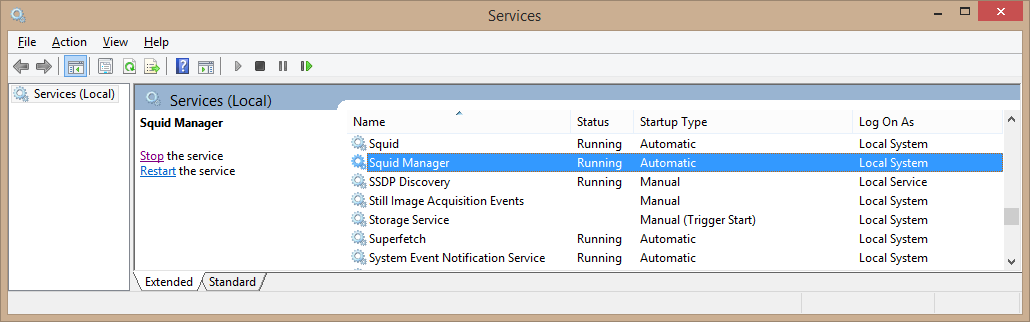
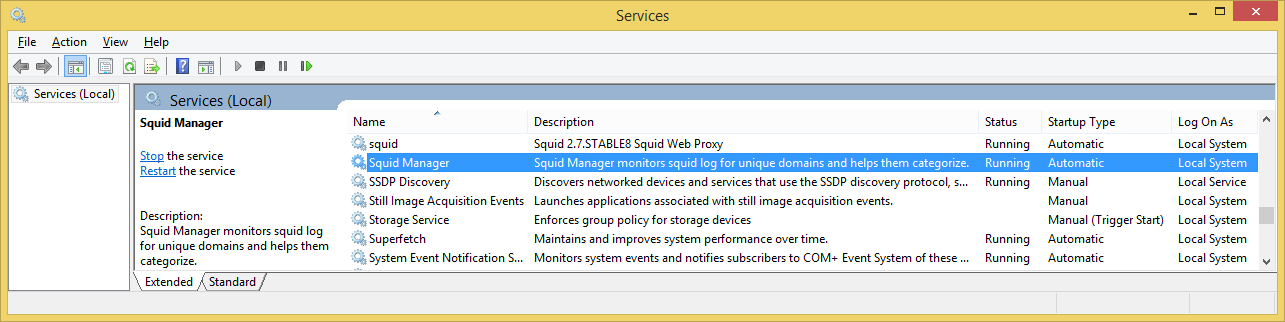
Update Screenshot and trivial refactors
Updated screenshot with trivial refactors

diff --git a/Squid Monitor/Squid Monitor/DomainListController.cs b/Squid Monitor/Squid Monitor/DomainListController.cs
@@ -46,7 +46,7 @@ namespace Squid_Monitor
         /// <param name="blockIgnore">Ignored domains List root node</param>
         /// <param name="newDomains">Newly detected List root node</param>
         /// <returns>Returns root node of created TreeNode list</returns>
-        public TreeNode LoadList(string listName, string listType, List<TreeNode> knownDomains, ref TreeNode blockTrust, ref TreeNode blockIgnore, ref TreeNode newDomains)
+        public TreeNode LoadList(string listName, string listType, List<TreeNode> knownDomains, List<TreeNode> knownNodes, ref TreeNode blockTrust, ref TreeNode blockIgnore, ref TreeNode newDomains)
         {
             SquidManager.DomainsList domainsList = null;
             switch (listType.ToLower())
@@ -62,7 +62,7 @@ namespace Squid_Monitor
                     break;
             }
 
-            TreeNode newRoot = this.ConstructTreeFromDlist(domainsList, knownDomains);
+            TreeNode newRoot = this.ConstructTreeFromDlist(domainsList, knownDomains, knownNodes);
             switch (listType.ToLower())
             {
                 case "trust":
@@ -73,7 +73,7 @@ namespace Squid_Monitor
                             n = newRoot.Nodes["Global"];
                         }
 
-                        n.Expand();
+                        n.Tag = true;
                         n = n.Nodes[0];
                         blockTrust = n;
                     }
@@ -84,7 +84,7 @@ namespace Squid_Monitor
                         TreeNode n = newRoot.Nodes["Global"];
                         if (n != null)
                         {
-                            n.Expand();
+                            n.Tag = true;
                             blockIgnore = n.Nodes[1];
                         }
                     }
@@ -93,8 +93,8 @@ namespace Squid_Monitor
                 case "new":
                     if (newRoot.Nodes.Count > 0)
                     {
-                        newRoot.Nodes[0].Expand();
-                        newRoot.Nodes[0].Nodes[1].Expand();
+                        newRoot.Nodes[0].Tag = true;
+                        newRoot.Nodes[0].Nodes[1].Tag = true;
                     }
 
                     newDomains = newRoot;
@@ -102,6 +102,7 @@ namespace Squid_Monitor
             }
 
             newRoot.Text = listName;
+            newRoot.Tag = true;
             return newRoot;
         }
 
@@ -121,9 +122,9 @@ namespace Squid_Monitor
         /// </summary>
         /// <param name="knownDomains">List of known domains</param>
         /// <returns>TreeNode hierarchy of new domains</returns>
-        public TreeNode GetNewDomains(List<TreeNode> knownDomains)
+        public TreeNode GetNewDomains(List<TreeNode> knownDomains, List<TreeNode> knownNodes)
         {
-            return this.ConstructTreeFromDlist(this.squidManager.GetNewDomains(), knownDomains);
+            return this.ConstructTreeFromDlist(this.squidManager.GetNewDomains(), knownDomains, knownNodes);
         }
 
         /// <summary>
@@ -144,12 +145,13 @@ namespace Squid_Monitor
         /// <param name="domainsList">List of domains</param>
         /// <param name="knownDomains">"Loaded list" of domains</param>
         /// <returns>TreeNode hierarchy containing domains list</returns>
-        private TreeNode ConstructTreeFromDlist(SquidManager.DomainsList domainsList, List<TreeNode> knownDomains)
+        private TreeNode ConstructTreeFromDlist(SquidManager.DomainsList domainsList, List<TreeNode> knownDomains, List<TreeNode> knownNodes)
         {
             if (domainsList != null)
             {
                 TreeNode newRoot = new TreeNode();
-                newRoot.Expand();
+                newRoot.Tag = true;
+                knownNodes.Add(newRoot);
                 if (domainsList.sections.Length == 0)
                 {
                     domainsList.sections = new Section[1];
@@ -186,6 +188,9 @@ namespace Squid_Monitor
                     section.Nodes.Add(active);
                     section.Nodes.Add(inactive);
                     newRoot.Nodes.Add(section);
+                    knownNodes.Add(active);
+                    knownNodes.Add(inactive);
+                    knownNodes.Add(section);
                 }
 
                 return newRoot;

diff --git a/Squid Monitor/Squid Monitor/SquidMonitor.cs b/Squid Monitor/Squid Monitor/SquidMonitor.cs
@@ -62,6 +62,11 @@ namespace Squid_Monitor
         private List<TreeNode> knownDomains = new List<TreeNode>();
 
         /// <summary>
+        /// Holds pointers to all nodes in the treeview
+        /// </summary>
+        private List<TreeNode> knownNodes = new List<TreeNode>();
+
+        /// <summary>
         /// Holds pointers to nodes that match search criteria
         /// </summary>
         private List<TreeNode> searchList = new List<TreeNode>();
@@ -103,7 +108,7 @@ namespace Squid_Monitor
         /// <param name="listType">Listname (trust/block) to pass dlc</param>
         private void LoadList(string listName, string listType)
         {
-            TreeNode newRoot = this.dlc.LoadList(listName, listType, this.knownDomains, ref this.blockTrust, ref this.blockIgnore, ref this.blockNew);
+            TreeNode newRoot = this.dlc.LoadList(listName, listType, this.knownDomains, this.knownNodes, ref this.blockTrust, ref this.blockIgnore, ref this.blockNew);
             treeView1.Invoke(new Add(treeView1.Nodes.Add), newRoot);
         }
 
@@ -117,6 +122,7 @@ namespace Squid_Monitor
             this.LoadList("Blocked Domains", "block");
             this.LoadList("New Domains", "new");
             this.loadCompleted = true;
+            ResetNodeExpansionState();
         }
 
         /// <summary>
@@ -246,10 +252,8 @@ namespace Squid_Monitor
         {
             try
             {
-                TreeNode newDomains = this.dlc.GetNewDomains(this.knownDomains);
+                TreeNode newDomains = this.dlc.GetNewDomains(this.knownDomains, this.knownNodes);
                 newDomains.Text = "New Domains";
-                newDomains.Nodes[0].Expand();
-                newDomains.Nodes[0].Nodes[1].Expand();
                 TreeNodeCollection blockNewNodes = newDomains.Nodes[0].Nodes[1].Nodes;
                 TreeNodeCollection treeViewNewNodes = treeView1.Nodes[2].Nodes[0].Nodes[1].Nodes;
 
@@ -265,6 +269,8 @@ namespace Squid_Monitor
                         this.knownDomains.Add(node);
                     }
                 }
+
+                ResetNodeExpansionState();
             }
             catch (Exception)
             {
@@ -301,6 +307,19 @@ namespace Squid_Monitor
                 }
             }
         }
+        
+        private void ResetNodeExpansionState()
+        {
+            if (InvokeRequired)
+            {
+                Invoke(new MethodInvoker(ResetNodeExpansionState));
+            }
+            else
+            {
+                this.knownNodes.Where(n => (n.Tag != null)).ToList().ForEach(n => n.Expand());
+                this.knownNodes.Where(n => (n.Tag == null)).ToList().ForEach(n => n.Collapse());
+            }
+        }
 
         /// <summary>
         /// Clear searchbox and set treenode expansion states to "initial" appearance
@@ -320,7 +339,7 @@ namespace Squid_Monitor
                     {
                         subList.Collapse();
                     }
-
+                    
                     if ((string.Compare(section.Text, "Miscelleneous", StringComparison.OrdinalIgnoreCase) != 0) &&
                         ((string.Compare(section.Text, "Global", StringComparison.OrdinalIgnoreCase) != 0) ||
                         section.Parent.Text.Contains("Trusted Domains")))

diff --git a/Squid Manager/SquidManager/DomainsList.cs b/Squid Manager/SquidManager/DomainsList.cs
@@ -168,7 +168,7 @@ namespace SquidManager
         /// <param name="domain">Domain name</param>
         public void AddDomain(string domain)
         {
-            if (this.sections.Count != 0)
+            if (this.sections.Count == 0)
             {
                 this.sections.Add(new Section());
                 this.sections[0].Name = "Global";
